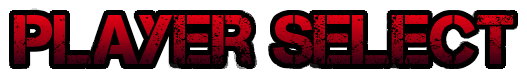
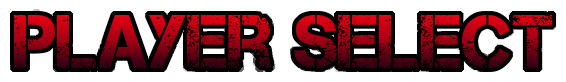
[GUI] More graphical work and re-factoring.

diff --git a/AntGame/src/graphics/screens/NonTournamentSelection.java b/AntGame/src/graphics/screens/NonTournamentSelection.java
@@ -40,12 +40,16 @@ public class NonTournamentSelection  extends JPanel {
 	private static final BufferedImage TITLE_IMAGE = ImageLoader.loadImage("/NonTournamentSelectionImages/playerSelectTitle.png");
 	private static final BufferedImage TOURNAMENT_BUTTON_BACKGROUND_IMAGE = ImageLoader.loadImage("/NormalTest.png");
 	private static final BufferedImage TOURNAMENT_BUTTON_HOVER_IMAGE = ImageLoader.loadImage("/HoverTest.png");
-	private static final BufferedImage BACKGROUND_IMAGE = ImageLoader.loadImage("/MainMenuPanelImages/background.jpg");
+	private static final BufferedImage BACKGROUND_IMAGE = ImageLoader.loadImage("/GlobalImages/background.jpg");
 	private static final BufferedImage TICK_IMAGE = ImageLoader.loadImage("/tick_test.png");
 	private static final BufferedImage CROSS_IMAGE = ImageLoader.loadImage("/cross_test.png");
 	
-	private static final BufferedImage UPLOAD_IMAGE = ImageLoader.loadImage("/uploadBrainButton.png");
-	private static final BufferedImage UPLOAD_ROLL_IMAGE = ImageLoader.loadImage("/uploadBrainButtonMouseOver.png");
+	private static final BufferedImage UPLOAD_IMAGE = ImageLoader.loadImage("/NonTournamentSelectionImages/uploadButtonImage.png");
+	private static final BufferedImage UPLOAD_ROLL_IMAGE = ImageLoader.loadImage("/NonTournamentSelectionImages/uploadButtonImageHover.png");
+
+	private static final BufferedImage NEXT_BUTTON_IMAGE = ImageLoader.loadImage("/NonTournamentSelectionImages/nextButtonImage.png");
+	private static final BufferedImage NEXT_BUTTON_IMAGE_HOVER = ImageLoader.loadImage("/NonTournamentSelectionImages/nextButtonImageHover.png");
+	
 	
 	private Game game;
 	private AntBrain player1Brain;
@@ -323,15 +327,12 @@ public class NonTournamentSelection  extends JPanel {
 		titleContainer.setOpaque(false);
 		
 		//Create Go button
-		JButton goButton = new JButton("GO");
-		goButton.addActionListener(new ActionListener(){
-
-			@Override
-			public void actionPerformed(ActionEvent arg0) {
+		ImageButton goButton = new ImageButton(NEXT_BUTTON_IMAGE, NEXT_BUTTON_IMAGE_HOVER) {
+			public void mouseClicked(MouseEvent e) {
 				getGame().switchScreen(Game.WORLD_SELECTION_SCREEN);
 			}
-			
-		});
+		};
+	
 		JPanel goPanel = new JPanel();
 		goPanel.setOpaque(false);
 		goPanel.add(goButton);

diff --git a/AntGame/src/graphics/screens/WorldSelectionPanel.java b/AntGame/src/graphics/screens/WorldSelectionPanel.java
@@ -29,8 +29,8 @@ import graphics.utilities.ImageLoader;
 import model.Game;
 
 public class WorldSelectionPanel extends JPanel{
-	private static final BufferedImage TITLE_IMAGE = ImageLoader.loadImage("/NormalTest.png");
-	private static final BufferedImage BACKGROUND_IMAGE = ImageLoader.loadImage("/MainMenuPanelImages/background.jpg");
+	private static final BufferedImage TITLE_IMAGE = ImageLoader.loadImage("/WorldSelectionPanelImages/selectWorldTitle.png");
+	private static final BufferedImage BACKGROUND_IMAGE = ImageLoader.loadImage("/GlobalImages/background.jpg");
 	private static final BufferedImage TICK_IMAGE = ImageLoader.loadImage("/tick_test.png");
 	private static final BufferedImage CROSS_IMAGE = ImageLoader.loadImage("/cross_test.png");
 	private static final BufferedImage UPLOAD_BUTTON = ImageLoader.loadImage("/WorldSelectionPanelImages/uploadFileButton.png");
